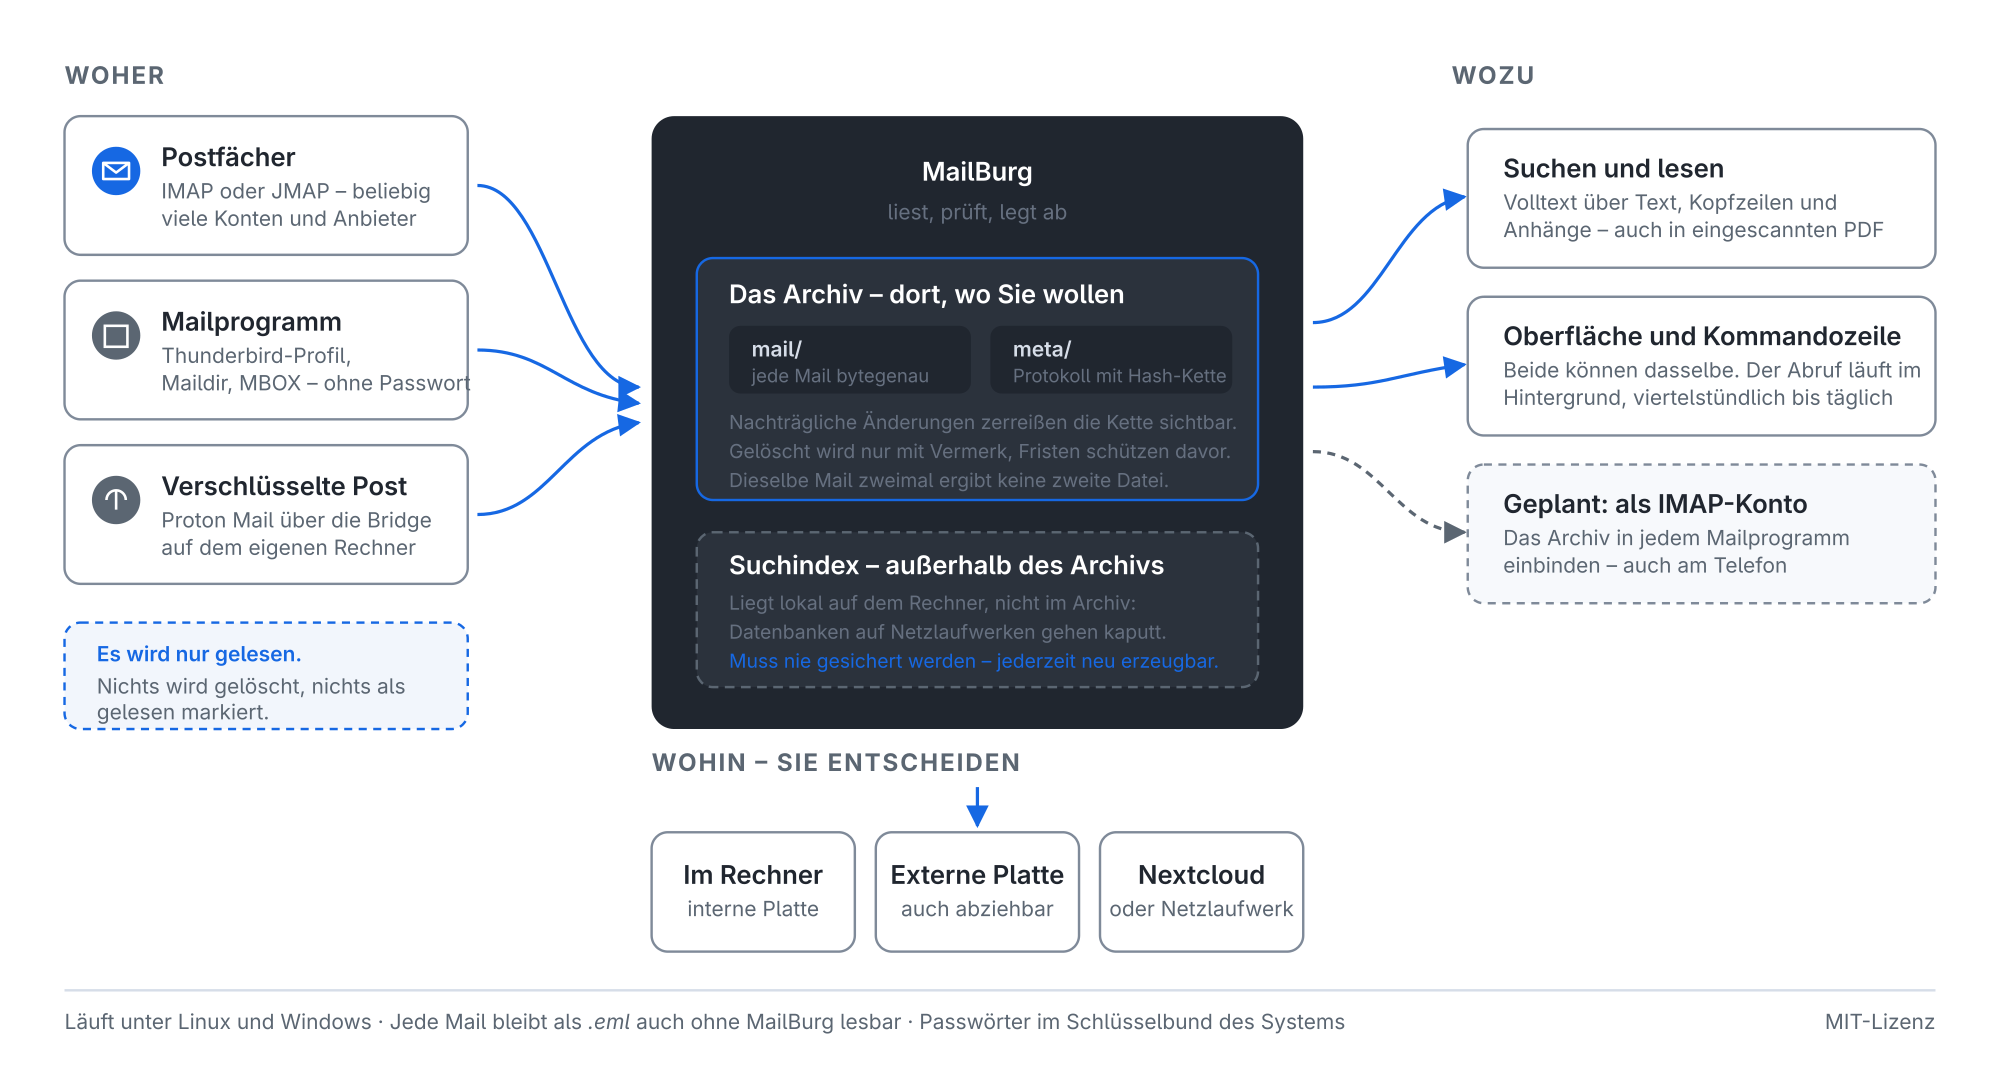
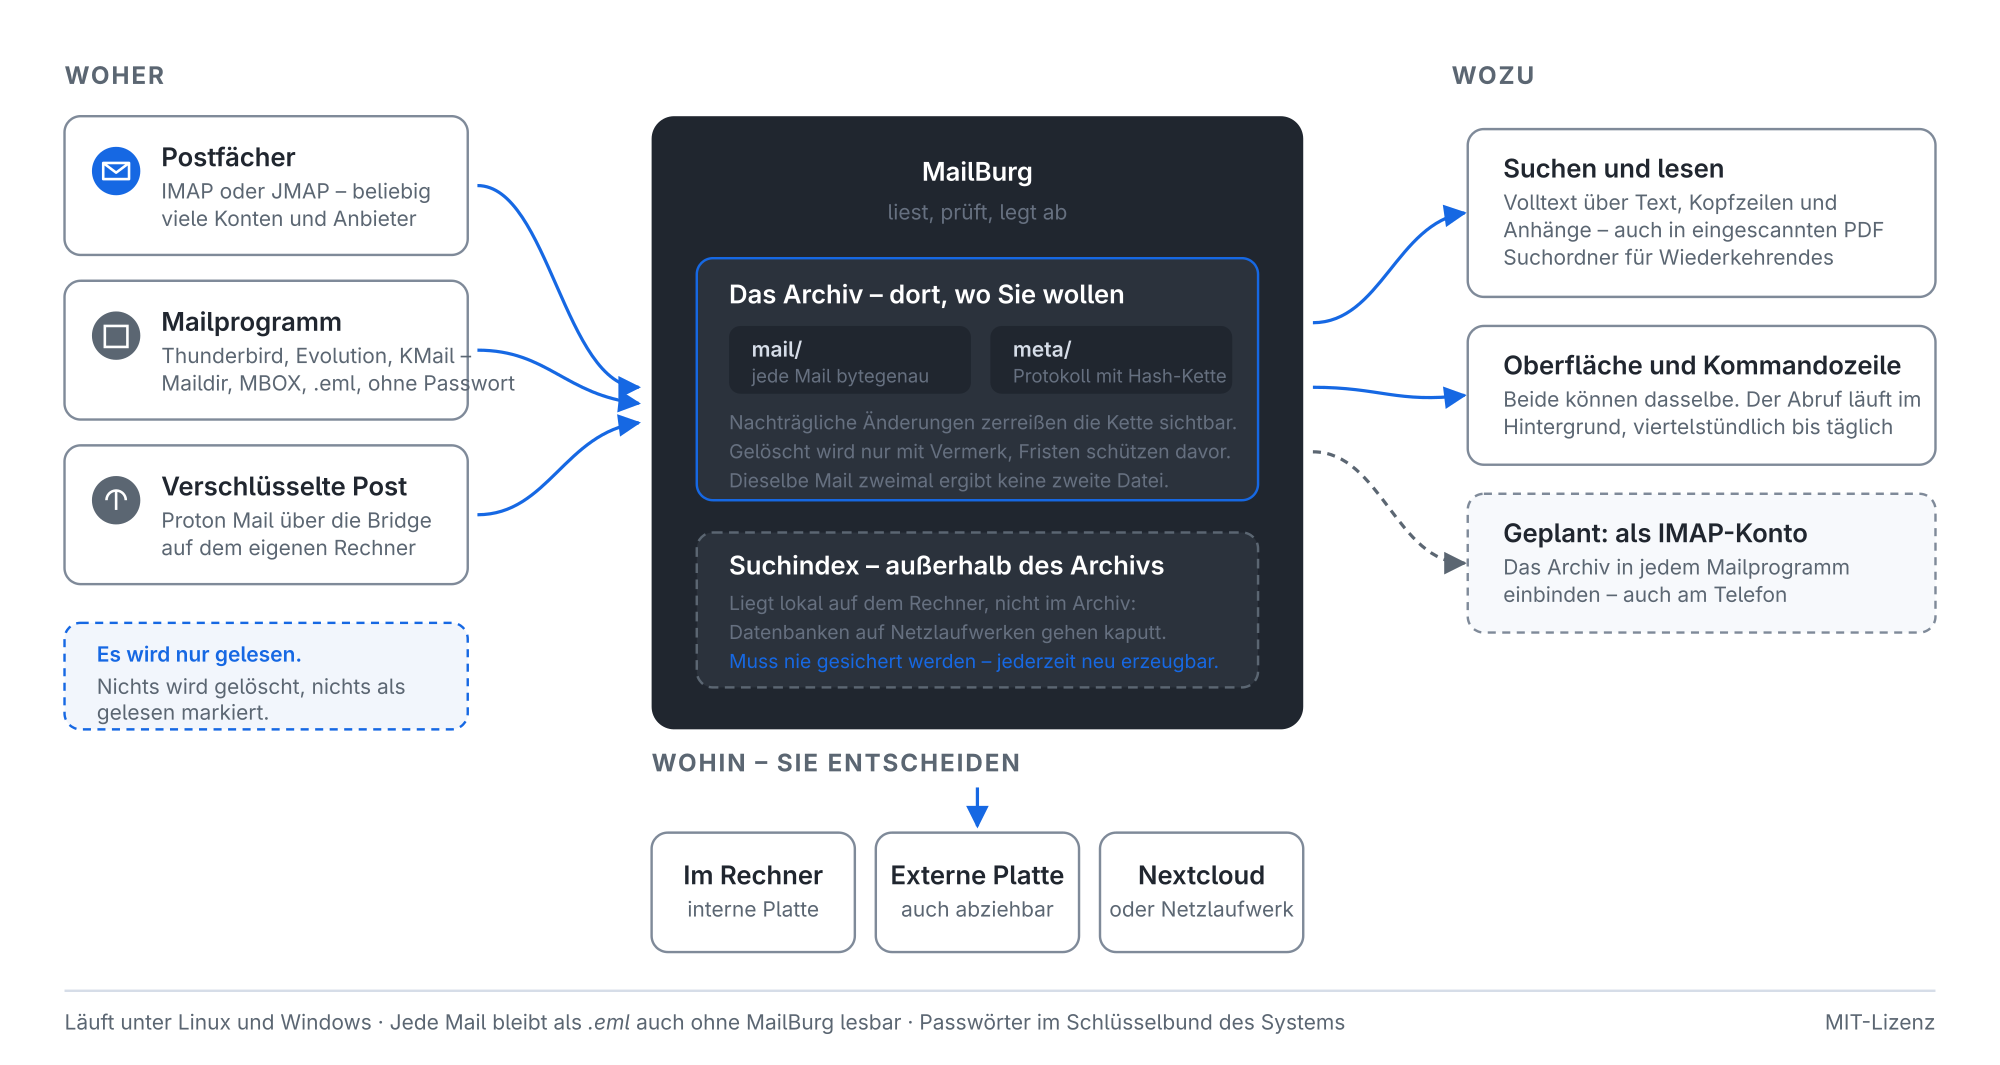
Die Projektseite zeigte noch 1.4.8 - und Bilder ohne Suchordner
Stephans Blick auf die eigene Startseite. Drei Befunde, und der erste
ist der aergerlichste.

Die README nannte Fassung 1.4.8, waehrend 1.5.0 veroeffentlicht war. Die
erste Zahl, die ein Besucher liest, und kein Test hat sie gemeldet -
weil es keinen gab. Eine Fassungsnummer in der Doku veraltet lautlos:
Sie sieht auch dann richtig aus, wenn sie falsch ist.

Der neue Waechter haelt keinen Wortlaut fest, sondern erzwingt einen -
das ist der Unterschied zu dem Test, der am 2026-09-07 den Satz
"Microsoft-Konten gehen derzeit nicht" konservierte. Dieser hier wird
rot, bis die Doku nachgezogen ist. Gegengeprobe: Mit 1.4.8 im Text ist
er rot.

Die Uebersichtsgrafik nannte die Suchordner nicht und Evolution nicht
beim Namen, obwohl der Einlesedialog es seit der 1.2.0 kann. Der Kasten
"Suchen und lesen" hat jetzt eine dritte Zeile, die beiden darunter sind
entsprechend gerueckt. Beleg, dass rsvg-convert der richtige Weg ist:
Das vorhandene PNG liess sich damit vorher auf null Pixel Unterschied
reproduzieren. Die Bildbeschreibung in SVG und beiden README ist
mitgezogen - sie ist fuer einen Screenreader das, was das Bild fuer
Sehende ist.

Und screenshots.py lenkte die Einstellungen nicht um. Bisher folgenlos,
seit der 1.5.0 nicht mehr: Das Skript sucht mehrmals, und die Suche
merkt sich das. Ohne den Patch haette der naechste Bilderlauf "rechnung"
in Stephans echte Liste "Zuletzt gesucht" geschrieben und zwei
Suchordner in seinen Baum. Dieselbe Vorkehrung wie in lesbarkeit.py seit
[…]

diff --git a/werkzeuge/screenshots.py b/werkzeuge/screenshots.py
@@ -332,6 +332,38 @@ def main() -> int:
     farben.auswahlfelder_verbreitern(anwendung)
 
     zwischen = Path(tempfile.mkdtemp(prefix="mailburg-bilder-"))
+
+    # **Die Einstellungen umlenken, bevor irgendein Fenster aufgeht.**
+    #
+    # Dieselbe Vorkehrung wie in ``werkzeuge/lesbarkeit.py``, und mit
+    # demselben Grund wie dort am 2026-09-06: Ein Werkzeug, das Bilder
+    # macht, darf am Rechner nichts ändern.
+    #
+    # Seit der 1.5.0 wiegt das schwerer. Die Suche merkt sich, wonach
+    # gesucht wurde, und dieses Skript sucht mehrmals – ohne den Patch
+    # stünde nach jedem Bilderlauf »rechnung« in der Liste »Zuletzt
+    # gesucht« des echten Anwenders, und die Suchordner für das Bild
+    # stünden in seinem Baum.
+    #
+    # Aufgefallen beim Nachziehen der Bilder für die 1.5.0 – also
+    # bevor das Skript zum ersten Mal mit dieser Fassung lief. Beim
+    # nächsten Lauf wäre es Stephans eigene Konfiguration gewesen.
+    from unittest import mock
+
+    from mailburg.core import paths
+
+    einstellungsordner = zwischen / "einstellungen"
+    datenordner = zwischen / "daten"
+    einstellungsordner.mkdir(parents=True, exist_ok=True)
+    datenordner.mkdir(parents=True, exist_ok=True)
+    umlenkung = [
+        mock.patch.object(paths, "config_dir",
+                          return_value=einstellungsordner),
+        mock.patch.object(paths, "data_dir", return_value=datenordner),
+    ]
+    for patch in umlenkung:
+        patch.start()
+
     try:
         ort = zwischen / "Geschaeftsarchiv"
         # Anlegen, füllen, schließen: Das Hauptfenster öffnet es gleich
@@ -345,6 +377,19 @@ def main() -> int:
 
         fenster = Hauptfenster(ort)
         archiv = fenster.archiv
+
+        # **Zwei Suchordner, damit der Zweig etwas zeigt.** Leer steht
+        # dort »(noch keiner)«, und ein Bild davon erklärt niemandem,
+        # wozu das gut ist. Die Namen sind so gewählt, dass man den
+        # Zweck am Namen sieht - genau darum geht es bei Suchordnern.
+        from mailburg.core import suchordner as _suchordner
+
+        _suchordner.hinzufuegen(archiv.uuid, "Rechnungen",
+                                "betreff:rechnung")
+        _suchordner.hinzufuegen(archiv.uuid, "Steuer 2025",
+                                "von:kraemer jahr:2025")
+        fenster._baum_fuellen()
+
         # Aufgeklappt zeigt der Baum, wie die Ordner unter einem
         # Postfach hängen - genau das, was eine Anleitung erklären soll.
         fenster.baum.expandAll()
@@ -511,6 +556,8 @@ def main() -> int:
 
         fenster.close()
     finally:
+        for patch in umlenkung:
+            patch.stop()
         shutil.rmtree(zwischen, ignore_errors=True)
 
     print(f"\nFertig. {len(POST)} Beispielmails, alle Namen erfunden.")

diff --git a/tests/test_install.py b/tests/test_install.py
@@ -224,6 +224,36 @@ class FassungsnummerTest(unittest.TestCase):
         self.assertNotIn("version", set(daten["project"]) - {"dynamic"})
         self.assertRegex(__version__, r"^\d+\.\d+\.\d+")
 
+    def test_die_readme_nennt_die_aktuelle_fassung(self) -> None:
+        """Die erste Zahl, die ein Besucher der Projektseite liest.
+
+        **Am 2026-09-21 stand dort 1.4.8, während 1.5.0 veröffentlicht
+        war.** Kein Test hat das gemeldet, weil es keinen gab – und
+        gemerkt hat es Stephan beim Blick auf die eigene Seite.
+
+        Eine Fassungsnummer in der Doku veraltet lautlos. Sie sieht auch
+        dann richtig aus, wenn sie falsch ist, und sagt dem Leser
+        obendrein etwas Falsches über das, was er gerade herunterlädt.
+
+        **Dieser Wächter hält keinen Wortlaut fest, sondern erzwingt
+        einen.** Das ist der Unterschied zu dem Test, der am 2026-09-07
+        den Satz »Microsoft-Konten gehen derzeit nicht« konservierte: Der
+        hier wird rot, *bis* die Doku nachgezogen ist.
+        """
+        from mailburg import __version__
+
+        for datei, muster in (
+            ("README.md", "**Fassung {},"),
+            ("README.en.md", "**Version {},"),
+        ):
+            inhalt = (self.wurzel / datei).read_text(encoding="utf-8")
+            erwartet = muster.format(__version__)
+            self.assertIn(
+                erwartet, inhalt,
+                f"{datei} nennt nicht die Fassung {__version__} – "
+                f"gesucht: {erwartet!r}",
+            )
+
 
 class WindowsFassungKannAllesTest(unittest.TestCase):
     """Die ``.exe`` muss enthalten, was MailBurg kann.

diff --git a/README.md b/README.md
@@ -28,7 +28,7 @@ Jahre später auf. **Es hängt an einem Gerät zum Prüfen**, nicht an einer
 Fassungsnummer – solange es keines gibt, bleibt dieser Absatz stehen.
 
 <p align="center">
-  <img src="assets/uebersicht-2000.png" alt="Übersicht: Postfächer über IMAP oder JMAP, Mailprogramme und die Proton-Bridge werden nur gelesen; MailBurg legt jede Mail bytegenau in einem Archiv ab, dessen Ort frei wählbar ist, mit Protokoll und Hash-Kette. Der Suchindex liegt außerhalb des Archivs und ist jederzeit neu erzeugbar. Zugriff über Oberfläche und Kommandozeile." width="960">
+  <img src="assets/uebersicht-2000.png" alt="Übersicht: Postfächer über IMAP oder JMAP, lokale Ordner aus Thunderbird, Evolution oder KMail und die Proton-Bridge werden nur gelesen; MailBurg legt jede Mail bytegenau in einem Archiv ab, dessen Ort frei wählbar ist, mit Protokoll und Hash-Kette. Der Suchindex liegt außerhalb des Archivs und ist jederzeit neu erzeugbar. Gesucht wird im Volltext samt Anhängen, Wiederkehrendes lässt sich als Suchordner ablegen. Zugriff über Oberfläche und Kommandozeile." width="960">
 </p>
 
 **Neu hier?** [Erste Schritte](docs/erste-schritte.md) führt mit Bildern von der Installation bis zum ersten durchsuchbaren Archiv. [Die Oberfläche](docs/oberflaeche.md) erklärt jedes Fenster und jeden Menüpunkt.
@@ -54,10 +54,11 @@ MailBurg macht es andersherum:
 
 ## Stand
 
-**Fassung 1.4.8, im Alltag im Einsatz.** Archivformat, IMAP-Abruf, Suche,
-Oberfläche, Texterkennung für eingescannte PDF, Sicherung und der regelmäßige
-Abruf im Hintergrund stehen und werden täglich benutzt – unter Linux mit einem
-Bestand von rund 68.000 Mails, unter Windows mit der fertigen `MailBurg.exe`.
+**Fassung 1.5.0, im Alltag im Einsatz.** Archivformat, IMAP-Abruf, Suche samt
+Suchordnern, Oberfläche, Texterkennung für eingescannte PDF, Sicherung und der
+regelmäßige Abruf im Hintergrund stehen und werden täglich benutzt – unter
+Linux mit einem Bestand von rund 68.000 Mails, unter Windows mit der fertigen
+`MailBurg.exe`.
 
 OAuth2 ist gebaut, aber nur gegen einen nachgebauten Anbieter geprüft: Bei
 einem echten Microsoft- oder Google-Konto hat sich damit noch niemand

diff --git a/README.en.md b/README.en.md
@@ -28,7 +28,7 @@ years later. **It hangs on having a machine to verify it on**, not on a
 version number — until there is one, this paragraph stays.
 
 <p align="center">
-  <img src="assets/uebersicht-2000.png" alt="Overview: mailboxes over IMAP or JMAP, mail clients and the Proton bridge are only ever read; MailBurg stores every message byte for byte in an archive whose location you choose, with a journal and hash chain. The search index lives outside the archive and can be rebuilt at any time. Access via the interface or the command line." width="960">
+  <img src="assets/uebersicht-2000.png" alt="Overview: mailboxes over IMAP or JMAP, local folders from Thunderbird, Evolution or KMail and the Proton bridge are only ever read; MailBurg stores every message byte for byte in an archive whose location you choose, with a journal and hash chain. The search index lives outside the archive and can be rebuilt at any time. Search covers full text including attachments, and recurring searches can be saved as folders. Access via the interface or the command line." width="960">
 </p>
 
 <sub>Die Grafik ist auf Deutsch – wie die Oberfläche und die Suchsprache.</sub>
@@ -53,10 +53,11 @@ MailBurg does the opposite:
 
 ## Status
 
-**Version 1.4.8, in daily use.** Archive format, IMAP retrieval, search, the
-graphical interface, text recognition for scanned PDFs, backups and scheduled
-retrieval are all in place and used every day — on Linux with a corpus of
-around 68,000 messages, on Windows with the ready-made `MailBurg.exe`.
+**Version 1.5.0, in daily use.** Archive format, IMAP retrieval, search
+including saved searches, the graphical interface, text recognition for
+scanned PDFs, backups and scheduled retrieval are all in place and used every
+day — on Linux with a corpus of around 68,000 messages, on Windows with the
+ready-made `MailBurg.exe`.
 
 OAuth2 is implemented, but only tested against a mock provider: nobody has yet
 signed in with a real Microsoft or Google account. For those, an app password

diff --git a/docs/oberflaeche.md b/docs/oberflaeche.md
@@ -10,7 +10,7 @@ Dieselben Erklärungen stehen auch im Programm selbst unter **Hilfe → Handbuch
 
 ## Das Hauptfenster
 
-![Das Hauptfenster in drei Bereichen: links die Postfächer mit ihren Ordnern, rechts oben die Nachrichtenliste mit Anhangsymbol, Datum, Absender, Betreff und Größe, darunter der Lesebereich. Ganz oben das Suchfeld, unten die Zahl der Mails im Archiv.](bilder/uebersicht.png)
+![Das Hauptfenster in drei Bereichen: links die Postfächer mit ihren Ordnern und darunter der Zweig »Suchordner« mit zwei gespeicherten Suchen, rechts oben die Nachrichtenliste mit Anhangsymbol, Datum, Absender, Betreff und Größe, darunter der Lesebereich. Ganz oben das Suchfeld, unten die Zahl der Mails im Archiv.](bilder/uebersicht.png)
 
 Vier Bereiche:
 
@@ -23,6 +23,11 @@ unteren Fensterrand bemerkt dabei niemand.
 **Links die Postfächer** mit ihren Ordnern und der Zahl der Mails. Ein Klick
 grenzt die Suche darauf ein. Die Postfächer lassen sich anordnen – mit der Maus
 oder über Strg+Auf und Strg+Ab.
+
+Darunter steht der Zweig **Suchordner**: gespeicherte Suchen, die Sie selbst
+benennen. Ein Klick darauf sucht wieder danach. Sie enthalten keine Post,
+sondern zeigen, was gerade auf sie passt – mehr dazu beim [Menü
+Suchen](#menü-suchen). Die rechte Maustaste ändert und entfernt sie.
 
 **Rechts die Treffer.** Ein Klick auf einen Spaltenkopf sortiert, ein zweiter
 dreht die Richtung um; das Zeichen ⇅ zeigt, welche Spalten sich sortieren

diff --git a/docs/erste-schritte.md b/docs/erste-schritte.md
@@ -281,6 +281,13 @@ Ein **Doppelklick** öffnet eine Nachricht in einem eigenen Fenster. Mit der
 **rechten Maustaste** öffnen Sie sie in Ihrem Mailprogramm, legen sie in ein
 Postfach zurück oder speichern sie als Datei.
 
+**Eine Suche, die Sie öfter brauchen, können Sie behalten.** *Suchen → Diese
+Suche als Suchordner sichern …* gibt ihr einen Namen und stellt sie links in
+den Baum, unter die Postfächer. Ein Klick darauf sucht wieder danach – und
+zwar immer nach dem heutigen Stand: Was morgen ankommt und dazugehört, steht
+darin, ohne dass Sie etwas einsortieren. An Ihrer Post ändert ein Suchordner
+nichts; er ist nur ein Name für eine Frage.
+
 Mehr zur Oberfläche: [Die Oberfläche](oberflaeche.md).
 Mehr zur Suchsprache: **Hilfe → Suchsprache** oder `mailburg suchhilfe`.
 
